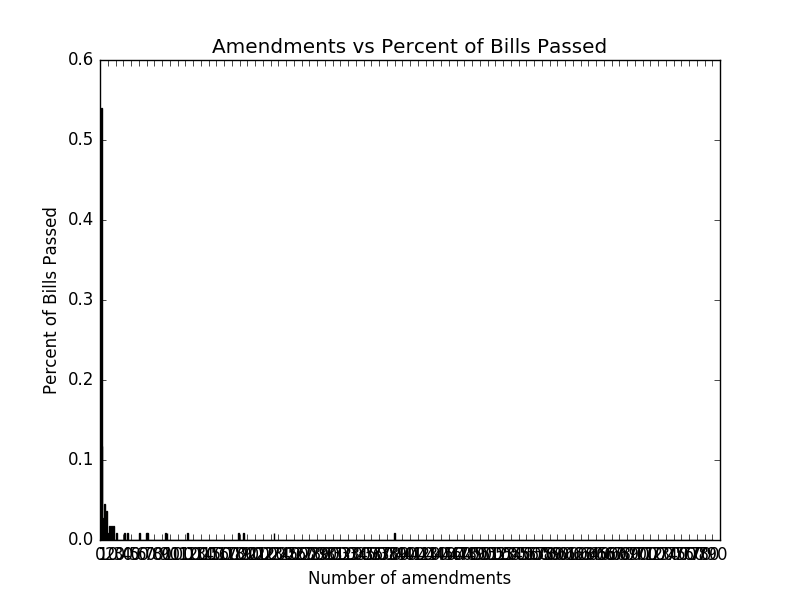
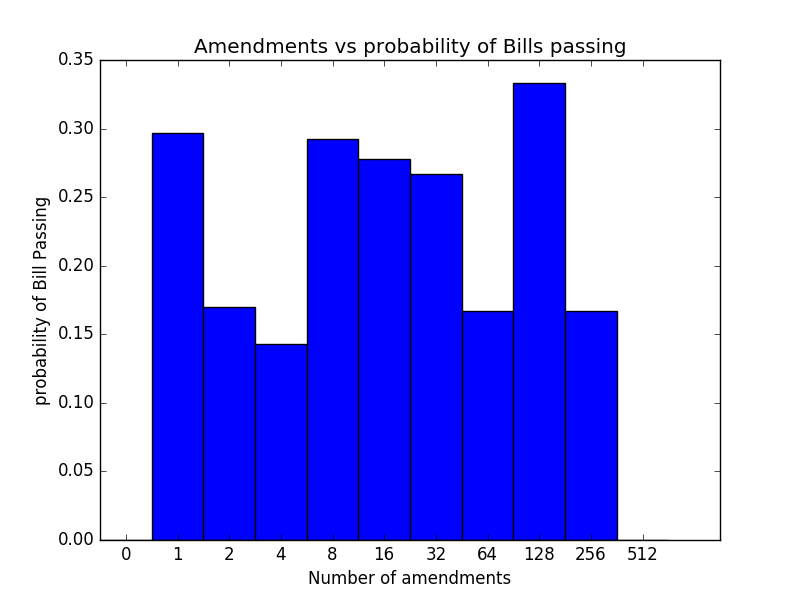
amanedment and cosponsors vs pass prob fixed

diff --git a/analyze.py b/analyze.py
@@ -5,6 +5,7 @@ import numpy as np
 import matplotlib.pyplot as plt
 import time
 from datetime import datetime
+from math import log,ceil,floor
 
 data = {}
 with open("data.json","r") as f:
@@ -66,23 +67,43 @@ def cosponsors_v_pass(data):
     for session in data.values():
         for typ in session.values():
             for bill in typ.values():
-                count += 1
+
+                num_csp = cosp_v_pass.get(len(bill['cosponsors']),{"passed":0,"total":0}) 
+                num_csp["total"] += 1
+
                 if "becamePublicLaw" in bill['actions']:
-                    cosp_v_pass[len(bill['cosponsors'])] = cosp_v_pass.get(len(bill['cosponsors']),0) + 1
+                    count += 1
+                    num_csp['passed'] += 1
+                    cosp_v_pass[len(bill['cosponsors'])] = num_csp
 
     size = int(max(cosp_v_pass.keys())) + 1
-    width = 1
-    occurrences = [cosp_v_pass.get(key,0)/count for key in range(size)]
-  
-    num_cosp = range(size)
-    fig, ax = plt.subplots()
-    chart1 = ax.bar(np.arange(size), occurrences, width)
 
-    fig.canvas.set_window_title("cosponsors_vs_bills_passed")
-    ax.set_ylabel("Percent of bills passed")
+    num_csp_buckets = {2**x:{'passed':0,'total':0} for x in range(int(ceil(log(size,2))))}
+    num_csp_buckets[0] = {'passed':0,'total':0}
+
+
+    for num, info in cosp_v_pass.items():
+        if num == 0:
+            num_csp_buckets[0]['passed'] += info['passed']
+            num_csp_buckets[0]['total'] += info['total']
+        else:
+            num_csp_buckets[2**int(floor(log(num,2)))]['passed'] += info['passed']
+            num_csp_buckets[2**int(floor(log(num,2)))]['total'] += info['total']
+
+    num_csp_buckets = {k:v['passed']/v['total'] for k,v in num_csp_buckets.items()}
+
+    buckets = sorted(num_csp_buckets)
+    probs = [num_csp_buckets[x] for x in buckets]
+    
+    fig, ax = plt.subplots()
+    chart1 = ax.bar(np.arange(int(ceil(log(size,2))) + 1), probs, 1)
+
+    fig.canvas.set_window_title("cosponsors_vs_bills_passed_fixed")
+    ax.set_ylabel("Probability of bills passed")
     ax.set_xlabel("Number of cosponsors")
     ax.set_title("Number of cosponsors Vs Percent of bills passed")
-    ax.set_xticks(np.arange(0,size,10))
+    ax.set_xticks(np.arange(int(ceil(log(size,2))) + 1) + .5)
+    ax.set_xticklabels([str(x) for x in buckets])
 
     plt.show()
 
@@ -280,10 +301,28 @@ def amendments(data):
     num_amendments = range(maximal)
     days = [amendments[k]["days"]/amendments[k]["count"] if amendments[k]["count"] != 0 else 0 for k in num_amendments]
     passed = [amendments[k]["passed"]/passed for k in num_amendments]
-    width = 1
+
+
+    num_amendments = [2**x for x in range(int(ceil(log(maximal,2))))]
+    num_amd_buckets = {x:{'passed':0,'total':0} for x in num_amendments}
+    num_amd_buckets[0] = {'passed':0,'total':0}
+
+    for num, info in amendments.items():
+        if num == 0:
+            num_amd_buckets[0]['passed'] += info['passed']
+            num_amd_buckets[0]['total'] += info['count']
+        else:
+            num_amd_buckets[2**int(floor(log(num,2)))]['passed'] += info['passed']
+            num_amd_buckets[2**int(floor(log(num,2)))]['total'] += info['count']
+
+    num_amd_buckets = {k:(v['passed']/v['total'] if v['total'] != 0 else 0) for k,v in num_amd_buckets.items()}
+
+    buckets = sorted(num_amd_buckets)
+    probs = [num_amd_buckets[x] for x in buckets]
+    
 
     fig, ax = plt.subplots()
-    chart1 = ax.bar(np.arange(maximal), days, width)
+    chart1 = ax.bar(np.arange(maximal), days, 1)
 
     fig.canvas.set_window_title("amendments_vs_average_days")
     ax.set_ylabel("Average days to pass")
@@ -294,18 +333,18 @@ def amendments(data):
     plt.show()
 
     fig, ax = plt.subplots()
-    chart2 = ax.bar(np.arange(maximal), passed, width)
+    chart2 = ax.bar(np.arange(int(ceil(log(maximal,2))) + 1), probs, 1)
 
     fig.canvas.set_window_title("amendments_vs_passed")
-    ax.set_ylabel("Percent of Bills Passed")
+    ax.set_ylabel("probability of Bill Passing")
     ax.set_xlabel("Number of amendments")
-    ax.set_title("Amendments vs Percent of Bills Passed")
-    ax.set_xticks(np.arange(0,maximal,10))
+    ax.set_title("Amendments vs probability of Bills passing")
+    ax.set_xticks(np.arange(int(ceil(log(maximal,2))) + 1) + .5)
+    ax.set_xticklabels([str(x) for x in buckets])
 
     plt.show()
 
 
-from math import log
 #100% bipartisan if 50% R and 50% D, 0% partisan if 100% R or 100% D
 #binary entropy
 def bipartisanship(R, D):
@@ -423,4 +462,4 @@ def bipart2(data):
     ax.set_title("Bipartisanship of Cosponsors vs. Likelihood of Bill Passing")
     plt.show()
 
-rep_prob(data)
+amendments(data)
